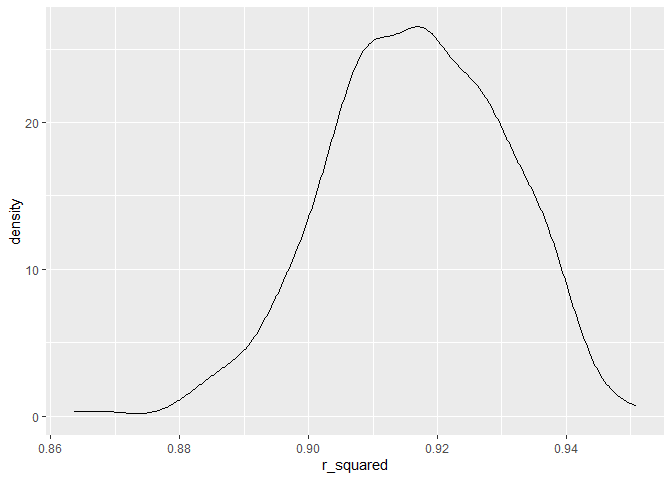
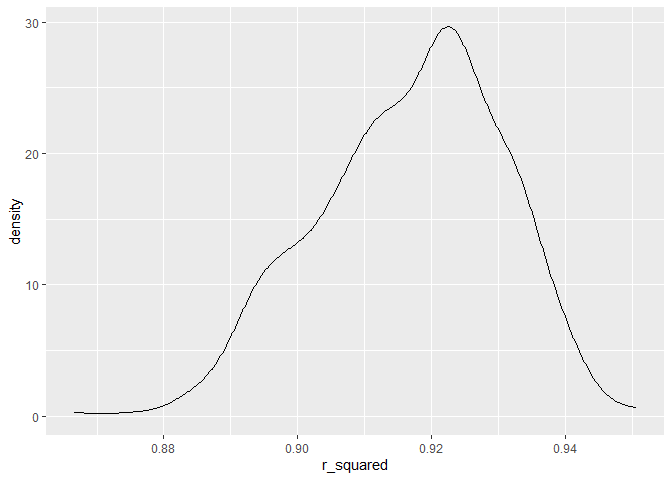
committing updated bootstrap code

diff --git a/p8105_hw6_ss6692.md b/p8105_hw6_ss6692.md
@@ -140,6 +140,11 @@ boot_sample = function(df) {
   model = lm(tmax ~ tmin + prcp, data = sample_df)
   r_squared = broom::glance(model)[["r.squared"]]
   return(data.frame(r_squared = r_squared))
+  
+coef_df = broom::tidy(model)
+  beta_tmin = coef_df |> filter(term == "tmin") |> pull(estimate)
+  beta_prcp = coef_df |> filter(term == "prcp") |> pull(estimate)
+    log_beta_product = log((beta_tmin)*(beta_prcp))
 }
 
 boot_straps = 
